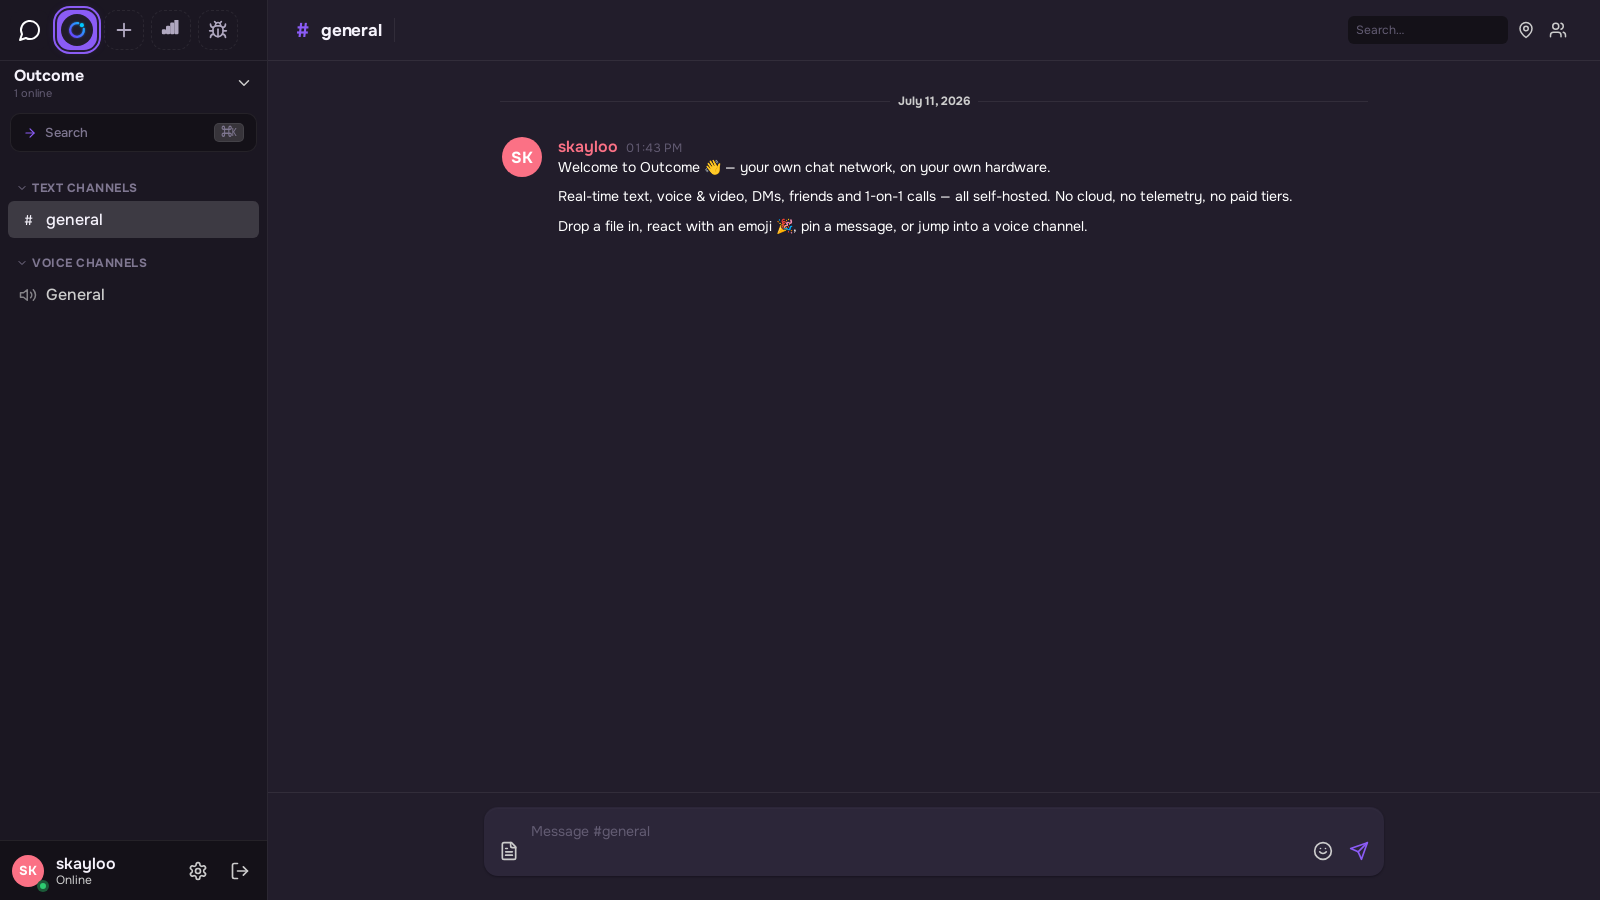
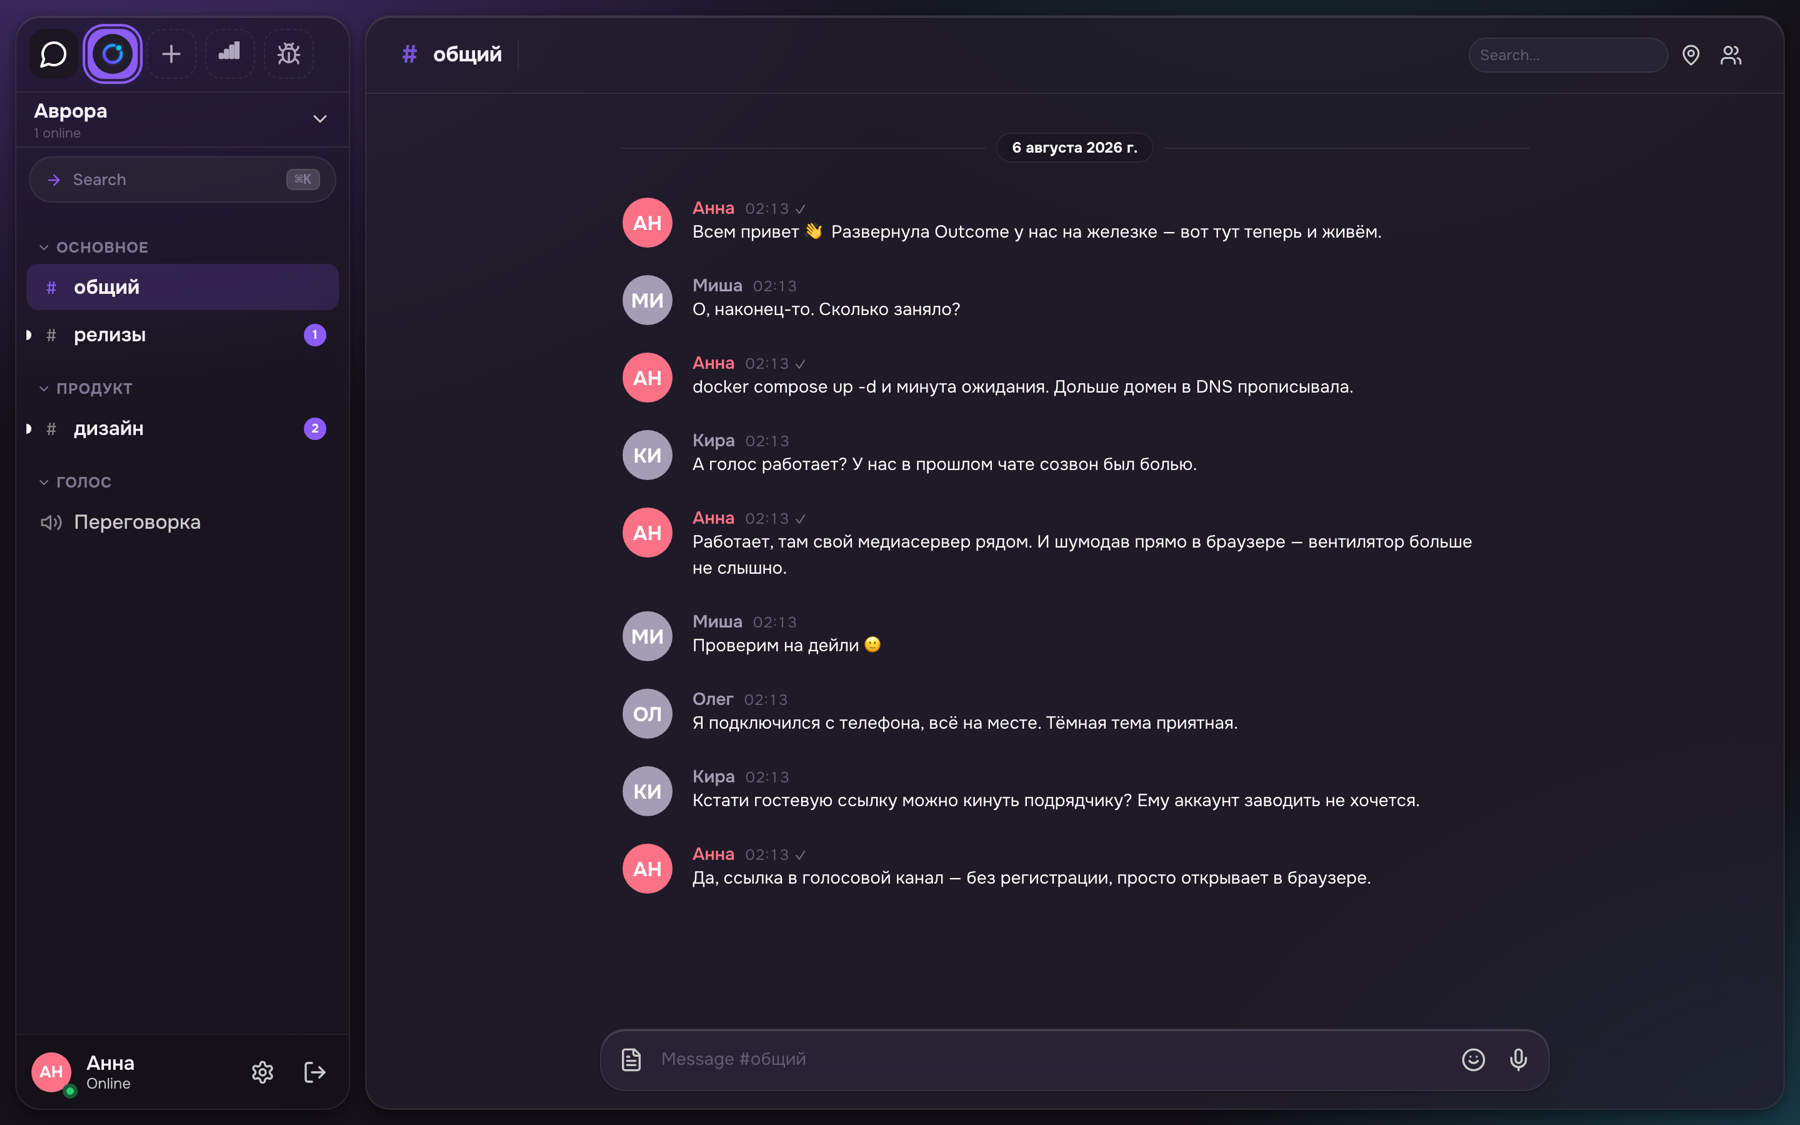
1.29.0 — no at-rest encryption, and fresh screenshots
The self-hosted edition never had end-to-end encryption; it did quietly
encrypt uploads at rest, because this repo handed the server a
MINIO_ENC_KEY. That is gone. This edition now encrypts nothing at rest and
says so plainly in both READMEs, in place of the old paragraph that
advertised AES-256-GCM.

Upgrades are safe and need no migration. The key is still passed through
(now defaulting to empty) and existing installs should LEAVE it in .env:
the server no longer encrypts anything it writes, but it needs that key to
read the objects already in the bucket. Both READMEs say this where an
upgrader will actually look — the encryption section and the backup
section.

Screenshots are all new, taken from a real stand running these exact
images: a small server with categories, four people and a conversation,
rather than the empty install the old ones showed. mobile-login.png is the
iOS app in a simulator; the rest are the web client at 1440 and 390.

Default OUTCOME_TAG moves 1.8.2 → 1.29.0, which is what is on Docker Hub.

diff --git a/README.ru.md b/README.ru.md
@@ -65,7 +65,7 @@
 | [caddy-docker-proxy](https://github.com/lucaslorentz/caddy-docker-proxy) | Edge TLS, автоматический Let's Encrypt |
 | [PostgreSQL 16](https://hub.docker.com/_/postgres) + [PgBouncer](https://hub.docker.com/r/edoburu/pgbouncer) | База + пул соединений |
 | [Redis](https://hub.docker.com/_/redis) | Реалтайм-рассылка между репликами API |
-| [MinIO](https://hub.docker.com/r/minio/minio) | Файлы (загрузки шифруются на диске, AES-256-GCM) |
+| [MinIO](https://hub.docker.com/r/minio/minio) | Хранилище загруженных файлов |
 | [LiveKit](https://hub.docker.com/r/livekit/livekit-server) | Голос/видео SFU (WebRTC) |
 | [docker-mailserver](https://github.com/docker-mailserver/docker-mailserver) | *Опционально:* свои почтовые ящики + почта приложения |
 
@@ -125,14 +125,19 @@ Caddy получает сертификаты.
 
 ### Что эта редакция шифрует, а что нет
 
-Это **открытая self-hosted редакция**. Всё шифруется *в канале связи* (HTTPS/WSS через
-Caddy, DTLS-SRTP для медиа), загруженные файлы шифруются *на диске* в MinIO (AES-256-GCM,
-ключ ваш). Текст сообщений лежит в вашем Postgres в открытом виде — сервер ваш и база
-ваша, но знать об этом стоит до того, как вы пообещаете пользователям обратное.
+Это **открытая self-hosted редакция**, и на диске она не шифрует ничего. Шифруется
+*канал связи* (HTTPS/WSS через Caddy, DTLS-SRTP для медиа) — и это всё: текст сообщений
+лежит в вашем Postgres, а загруженные файлы в вашем MinIO ровно в том виде, в каком
+пришли. Сервер ваш и диски ваши — но знать об этом стоит до того, как вы пообещаете
+пользователям обратное.
 
 **Сквозное шифрование**, при котором сам сервер не может прочитать личную переписку и
 услышать звонок, в эту редакцию не входит. Оно есть в коммерческой редакции — напишите
 нам, если оно вам нужно.
+
+*Обновляетесь с 1.8.x или раньше?* Те версии шифровали загрузки на диске вашим
+`MINIO_ENC_KEY`. Оставьте этот ключ в `.env`: новым он ничего не шифрует, но файлам,
+которые уже лежат в бакете, он нужен, чтобы их можно было прочитать.
 
 ## Почта (опционально)
 
@@ -206,8 +211,8 @@ docker compose up -d
 docker compose exec postgres pg_dump -U outcome -Fc outcome > outcome-$(date +%F).dump
 ```
 
-Сохраните и `.env` — особенно `MINIO_ENC_KEY`: загруженные файлы зашифрованы этим
-ключом и без него нечитаемы.
+Сохраните и `.env`. Если в нём остался `MINIO_ENC_KEY` от старой установки — он важнее
+всего: файлы, загруженные тогда, без него не прочитать.
 
 ## Масштабирование
 

diff --git a/README.md b/README.md
@@ -59,7 +59,7 @@ Everything around the two Outcome images is stock open source pulled from public
 | [caddy-docker-proxy](https://github.com/lucaslorentz/caddy-docker-proxy) | Edge TLS, auto Let's Encrypt |
 | [PostgreSQL 16](https://hub.docker.com/_/postgres) + [PgBouncer](https://hub.docker.com/r/edoburu/pgbouncer) | Database + connection pooling |
 | [Redis](https://hub.docker.com/_/redis) | Realtime fan-out across API replicas |
-| [MinIO](https://hub.docker.com/r/minio/minio) | File storage (uploads encrypted at rest, AES-256-GCM) |
+| [MinIO](https://hub.docker.com/r/minio/minio) | File storage for uploads |
 | [LiveKit](https://hub.docker.com/r/livekit/livekit-server) | Voice/video SFU (WebRTC) |
 | [docker-mailserver](https://github.com/docker-mailserver/docker-mailserver) | *Optional:* your own mailboxes + app mail |
 
@@ -118,14 +118,18 @@ server"** field on its login screen.
 
 ### What this edition does and does not encrypt
 
-This is the **open self-hosted edition**. Everything is encrypted *in transit* (HTTPS/WSS
-via Caddy, DTLS-SRTP for media) and uploads are encrypted *at rest* in MinIO (AES-256-GCM,
-your key). Message text is stored in your Postgres in plaintext — your server, your
-database, but worth knowing before you promise otherwise to your users.
+This is the **open self-hosted edition**, and it encrypts nothing at rest. Traffic is
+encrypted *in transit* (HTTPS/WSS via Caddy, DTLS-SRTP for media), and that is the whole of
+it: message text sits in your Postgres and uploads sit in your MinIO exactly as they
+arrived. Your server, your disks — but know it before you promise your users otherwise.
 
 **End-to-end encryption** — where the server itself cannot read direct messages or hear
 calls — is not part of this edition. It ships in the commercial edition; write to us if
 you need it.
+
+*Upgrading from 1.8.x or earlier?* Those versions encrypted uploads at rest with your
+`MINIO_ENC_KEY`. Leave that key in your `.env`: nothing new is encrypted with it, but the
+files already in your bucket still need it to be read back.
 
 ## Mail (optional)
 
@@ -199,8 +203,8 @@ Consistent database dump without stopping anything:
 docker compose exec postgres pg_dump -U outcome -Fc outcome > outcome-$(date +%F).dump
 ```
 
-Also back up your `.env` — `MINIO_ENC_KEY` in particular: uploaded files are encrypted
-at rest with it and are unreadable without it.
+Also back up your `.env`. If it still carries a `MINIO_ENC_KEY` from an older install,
+that one matters most: files uploaded back then are unreadable without it.
 
 ## Scaling
 
